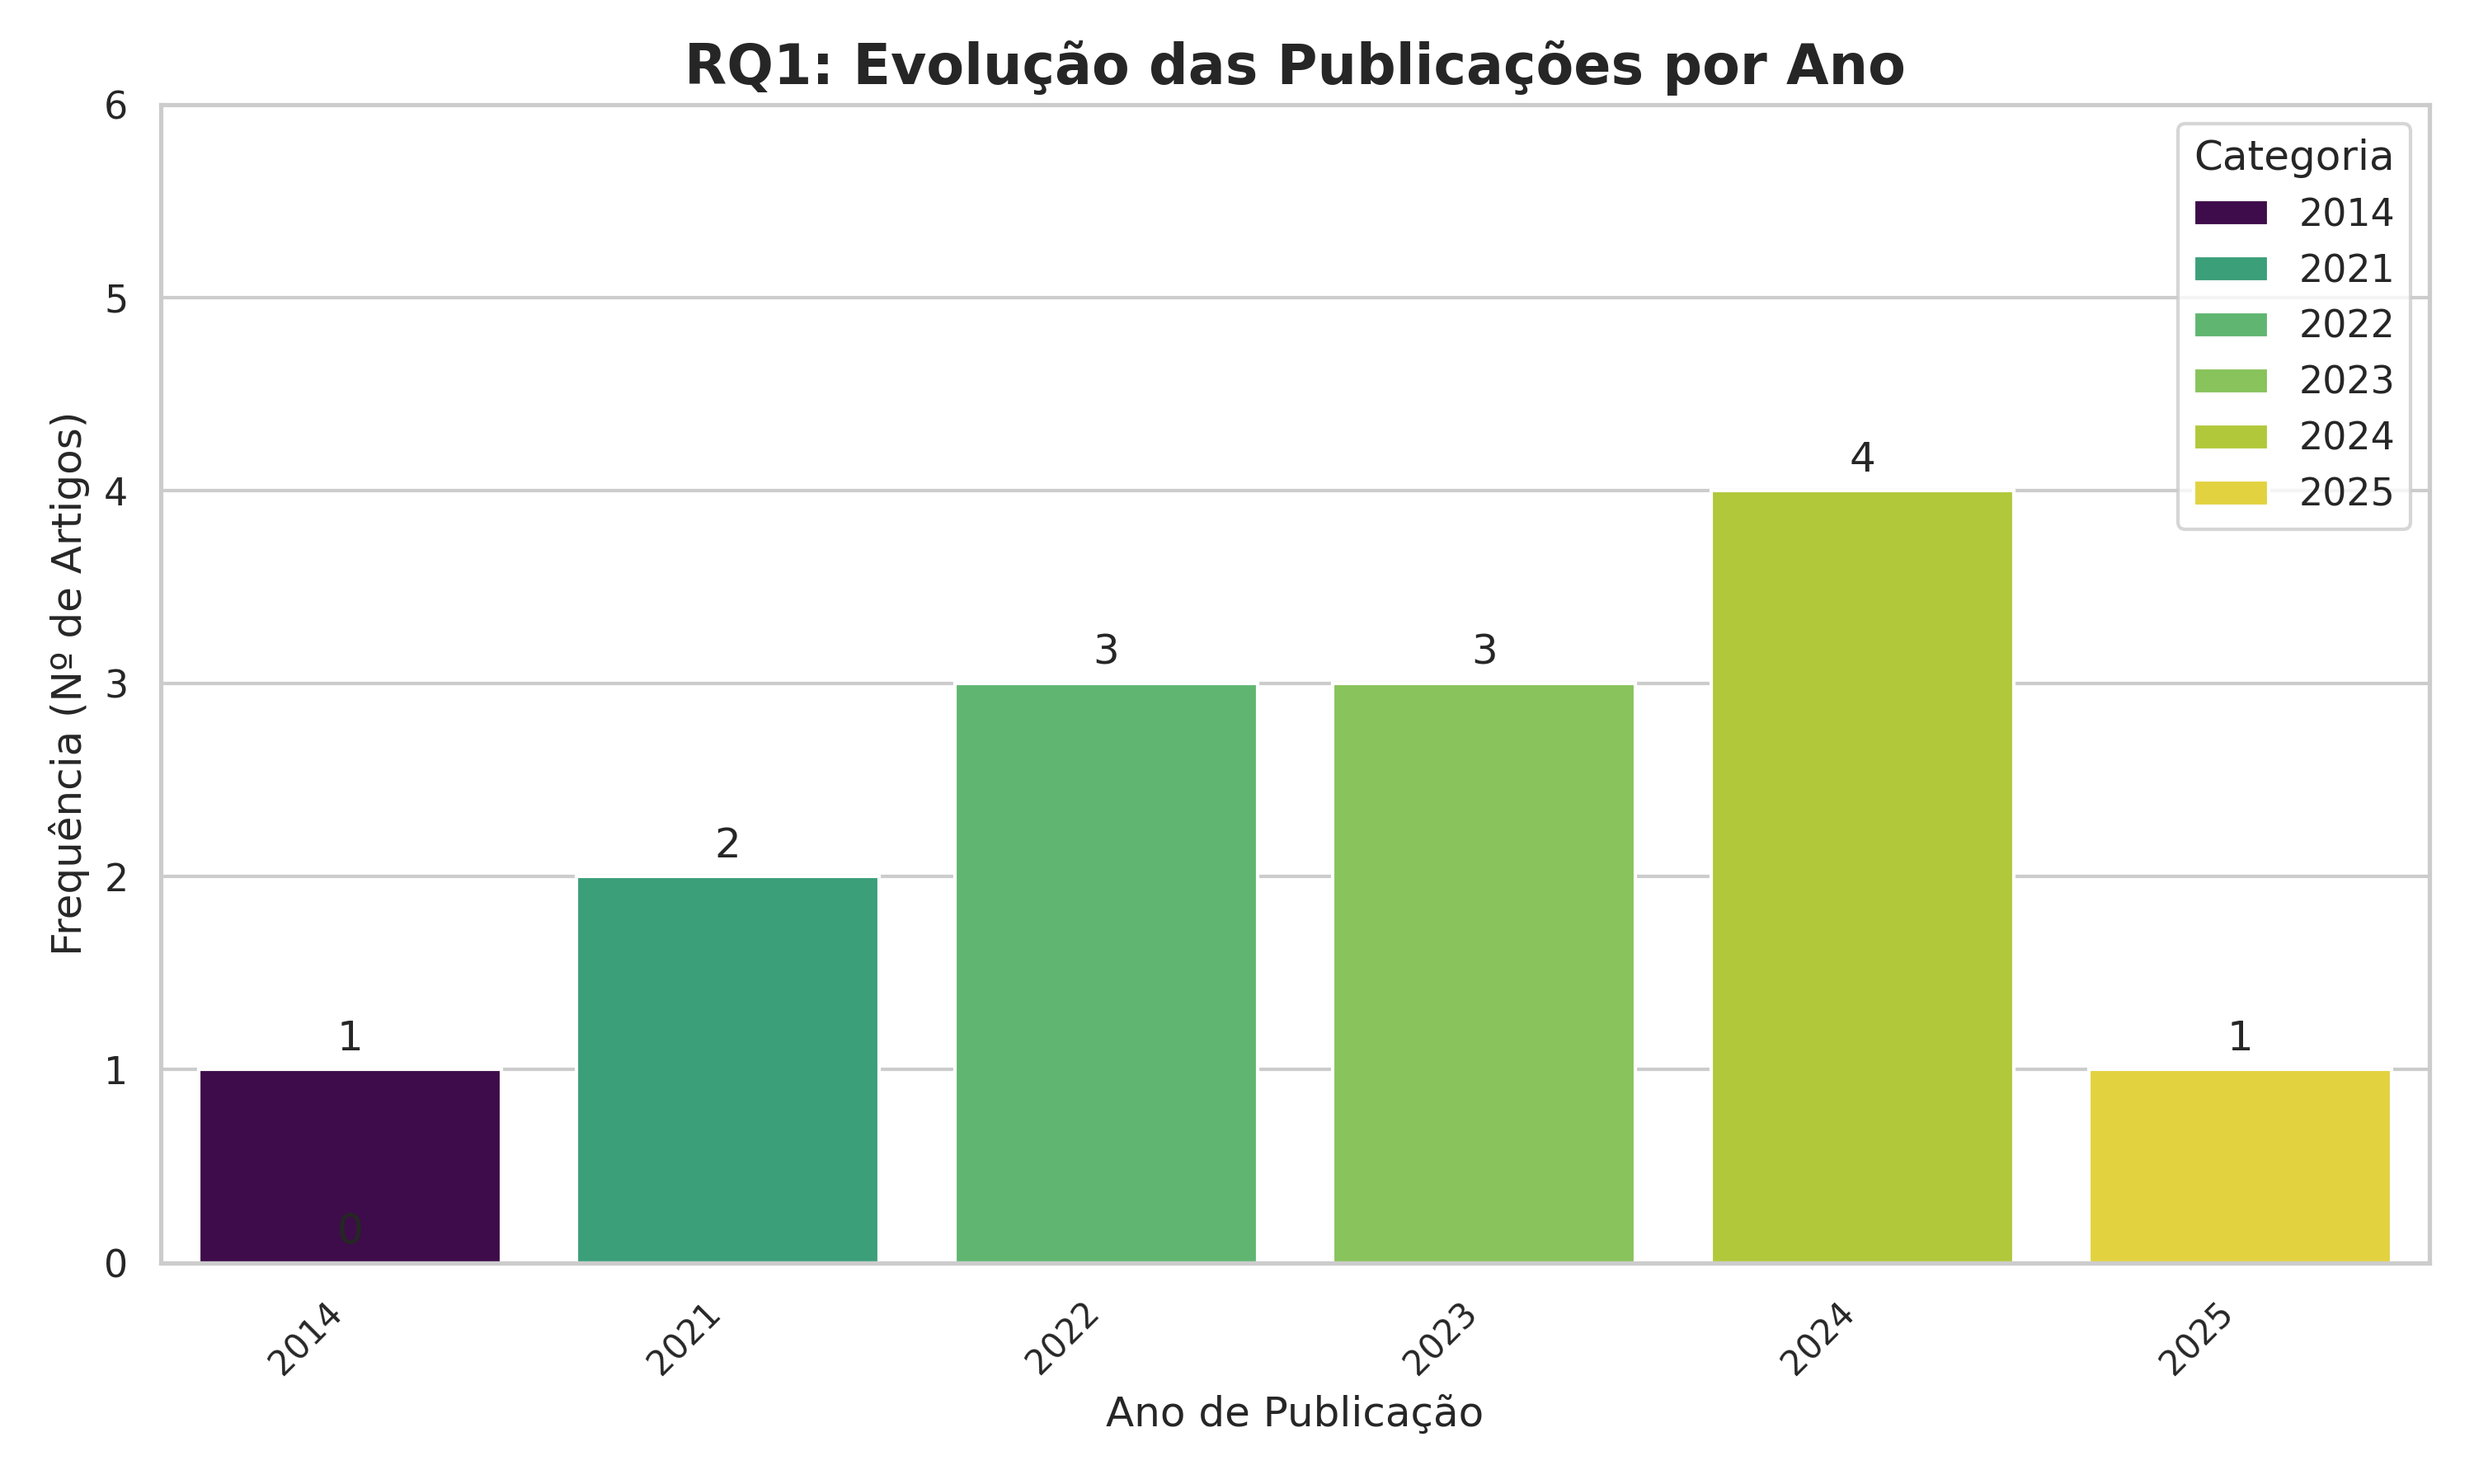
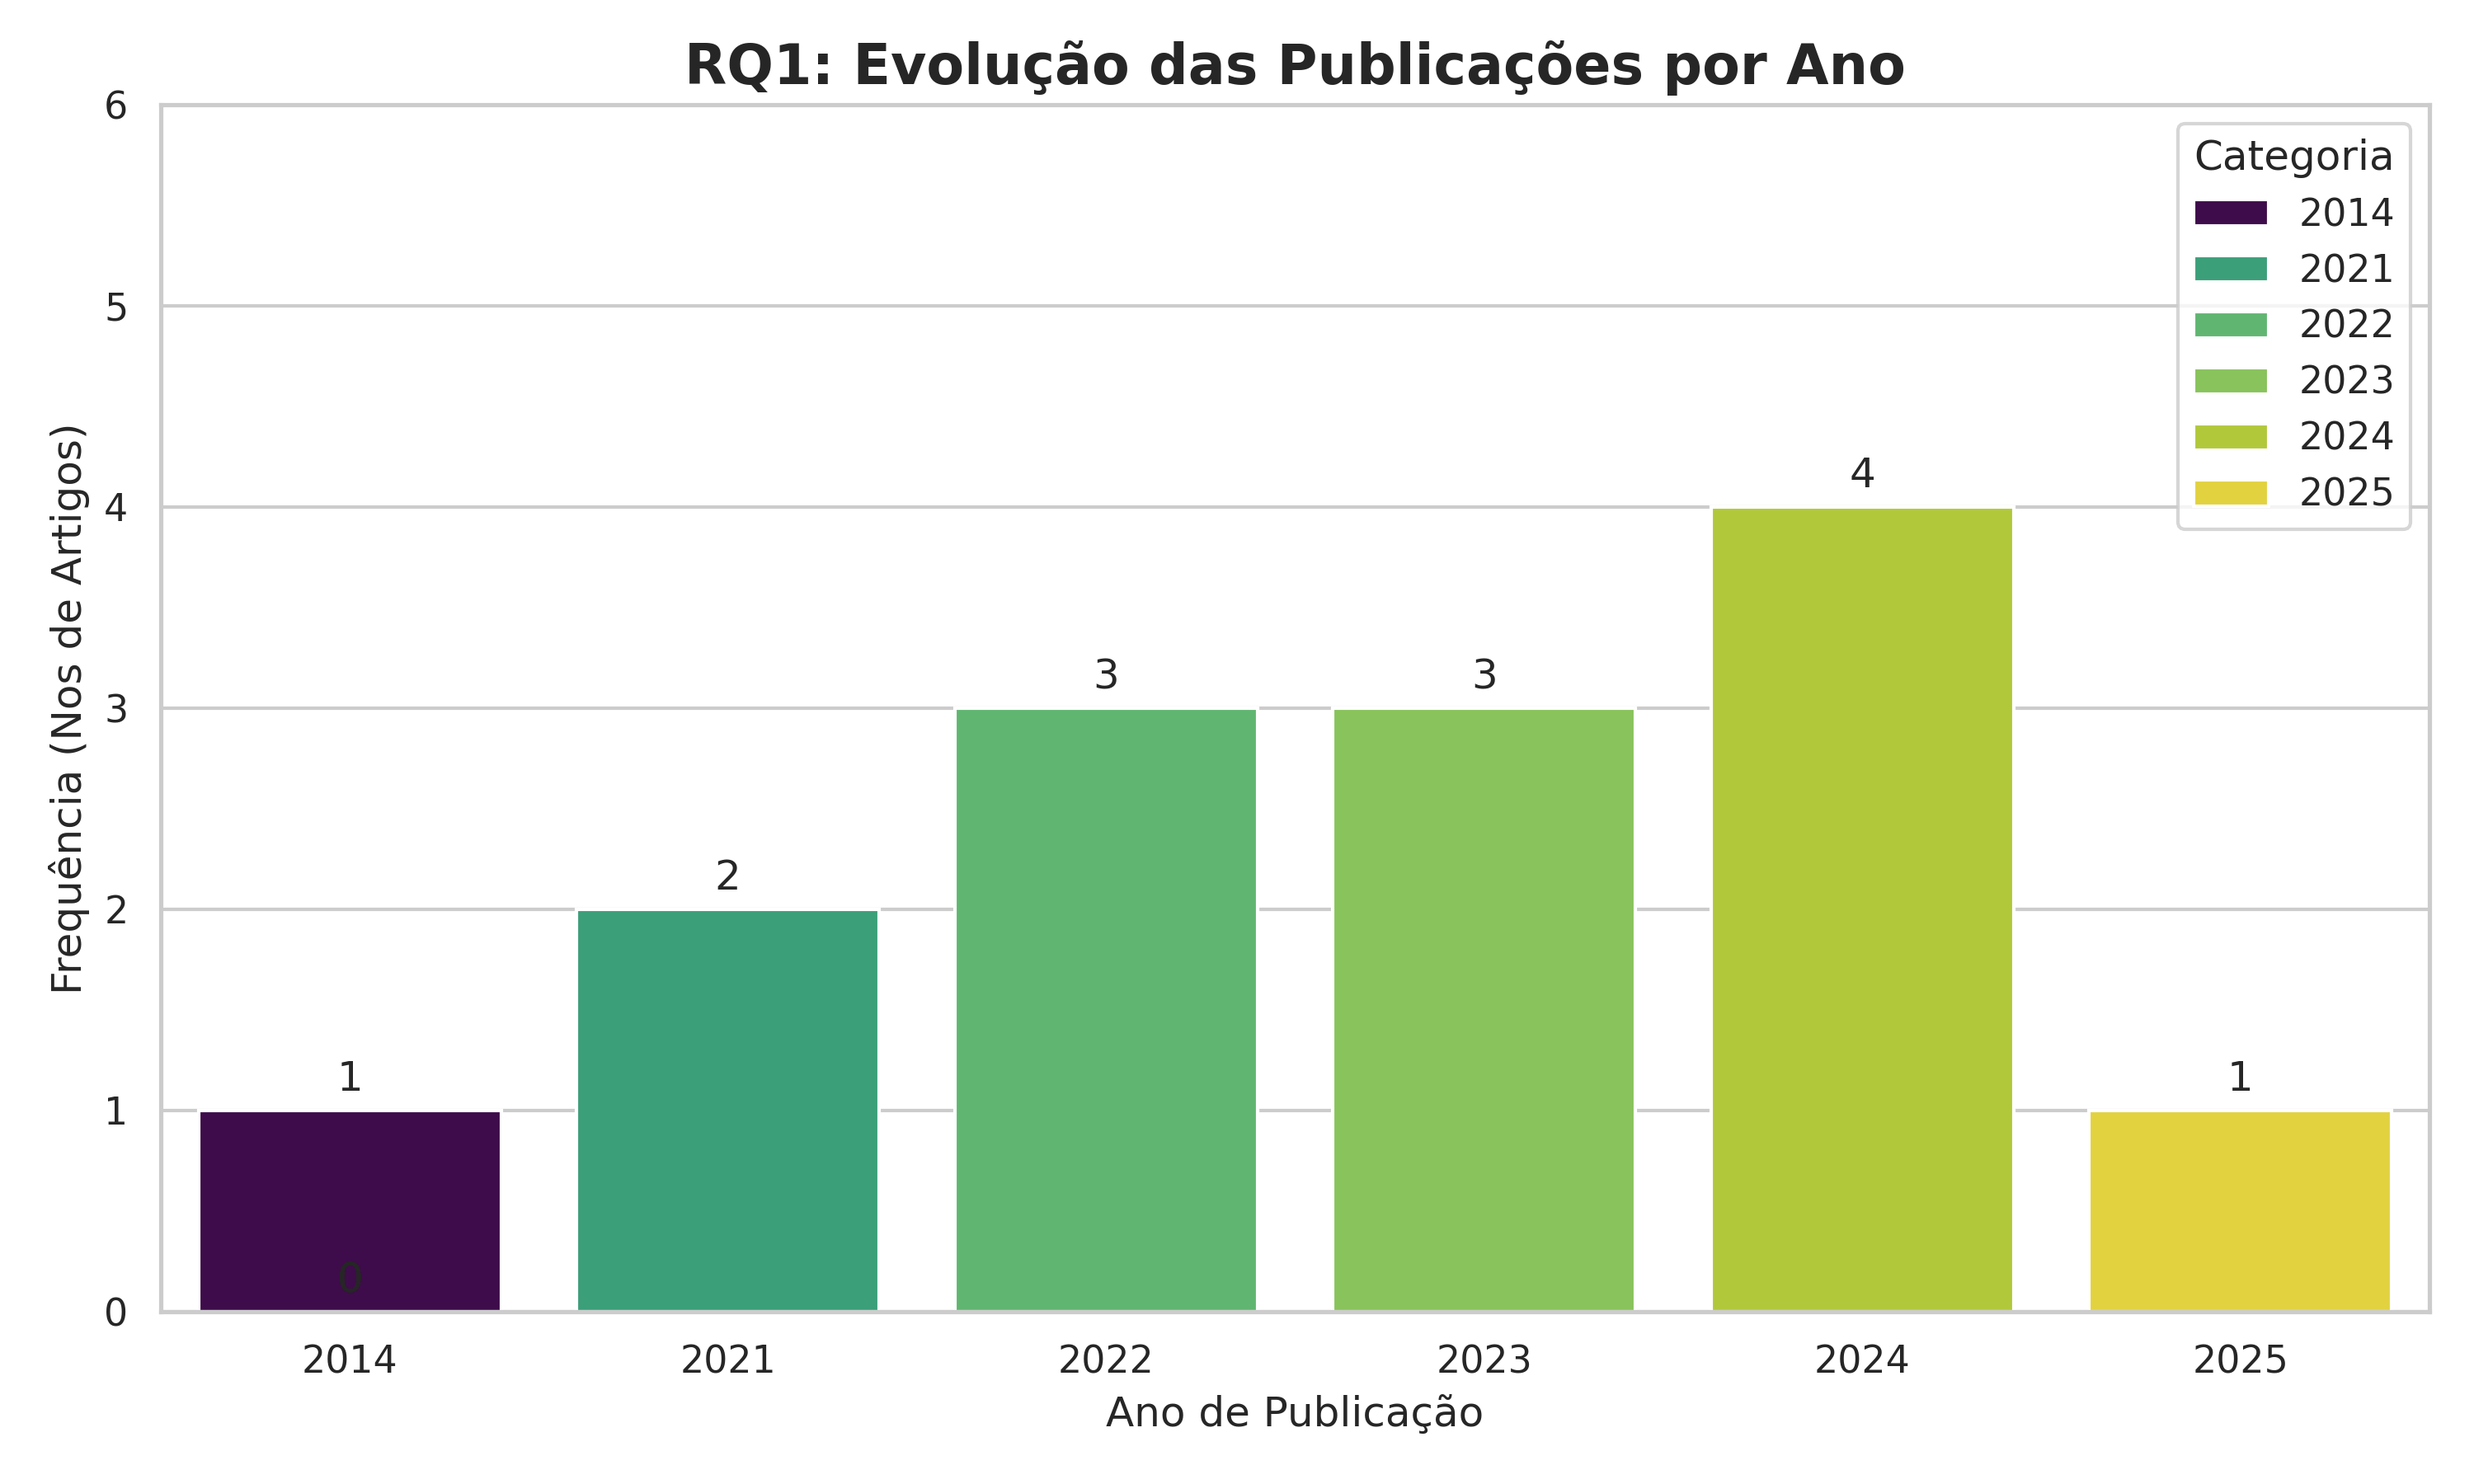
change: minor changes

diff --git a/ce_graficos.py b/ce_graficos.py
@@ -275,7 +275,8 @@ def plot_vertical_bar(data, title, filename, xlabel, ylabel, figsize=(10, 6)):
     else:
          plt.ylim(0, max_freq * 1.15)
     
-    if len(data) > 5 or max(len(str(s)) for s in data.index) > 15:
+    # Rotação SÓ SE NECESSÁRIO
+    if len(data) > 6 or max(len(str(s)) for s in data.index) > 10:
         plt.xticks(rotation=45, ha='right', fontsize=10)
     else:
         plt.xticks(rotation=0, ha='center', fontsize=11)
@@ -301,20 +302,37 @@ try:
     mascara_filtro = df['Esporte_Limpo'].str.contains("Não se aplica|indústria", na=False, case=False)
     df_filtrado_rq1 = df[~mascara_filtro].copy()
 
-    # 2. Normaliza Futebol (só para garantir)
-    df_filtrado_rq1.loc[df_filtrado_rq1['Esporte_Limpo'].str.contains('Soccer', case=False), 'Esporte_Limpo'] = 'Futebol'
-    
-    # 3. Normaliza Basquete (PARA JUNTAR "Basquete (NBA)" e "Basquete")
-    df_filtrado_rq1.loc[df_filtrado_rq1['Esporte_Limpo'].str.contains('Basquete', case=False), 'Esporte_Limpo'] = 'Basquete'
-    
-    # 4. Normaliza Tênis (só para garantir)
-    df_filtrado_rq1.loc[df_filtrado_rq1['Esporte_Limpo'].str.contains('Tênis', case=False), 'Esporte_Limpo'] = 'Tênis'
+    # 2. CRIA O MAPA DE NORMALIZAÇÃO (PARA UNIFICAR E ENCURTAR)
+    # Este mapa é a correção principal para o seu problema
+    sport_normalization_map = {
+        # Futebol
+        'Futebol': 'Futebol',
+        'Soccer': 'Futebol',
+        # Basquete
+        'Basquete (NBA)': 'Basquete',
+        'Basquete': 'Basquete',
+        # Tênis
+        'Tênis': 'Tênis',
+        # Hóquei
+        'Ice Hockey (NHL)': 'Hóquei',
+        # Futebol Americano
+        'Futebol Americano (Sim.)': 'Futebol Americano',
+        # Cricket
+        'Cricket': 'Cricket',
+        # Voleibol
+        'Voleibol (SuperLiga Brasileira)': 'Voleibol',
+        'Voleibol': 'Voleibol',
+        # UFC
+        'MMA (UFC)': 'UFC',
+        'UFC': 'UFC',
+        'Artes Marciais Mistas (MMA)': 'UFC'
+    }
 
-    # 5. Normaliza os outros para nomes curtos (PARA ENCURTAR OS TÍTULOS)
-    df_filtrado_rq1.loc[df_filtrado_rq1['Esporte_Limpo'].str.contains('Ice Hockey', case=False), 'Esporte_Limpo'] = 'Hóquei'
-    df_filtrado_rq1.loc[df_filtrado_rq1['Esporte_Limpo'].str.contains('Futebol Americano', case=False), 'Esporte_Limpo'] = 'Futebol Americano'
-
-    # 6. Agora, conta os valores
+    # 3. Aplica o mapa
+    # O .get(x, x) significa: "Tente encontrar 'x' no mapa. Se não encontrar, use 'x' (o valor original)."
+    df_filtrado_rq1['Esporte_Limpo'] = df_filtrado_rq1['Esporte_Limpo'].apply(lambda x: sport_normalization_map.get(x, x))
+    
+    # 4. Agora, conta os valores
     sport_counts = df_filtrado_rq1['Esporte_Limpo'].value_counts()
     
     plot_vertical_bar(
@@ -334,7 +352,7 @@ try:
         title="RQ1: Evolução das Publicações por Ano",
         filename="RQ1_Publicacoes_por_Ano.png",  
         xlabel="Ano de Publicação",
-        ylabel="Frequência (Nº de Artigos)"
+        ylabel="Frequência (Nos de Artigos)"
     )
 
     # --- RQ2: Modelos de ML ---
